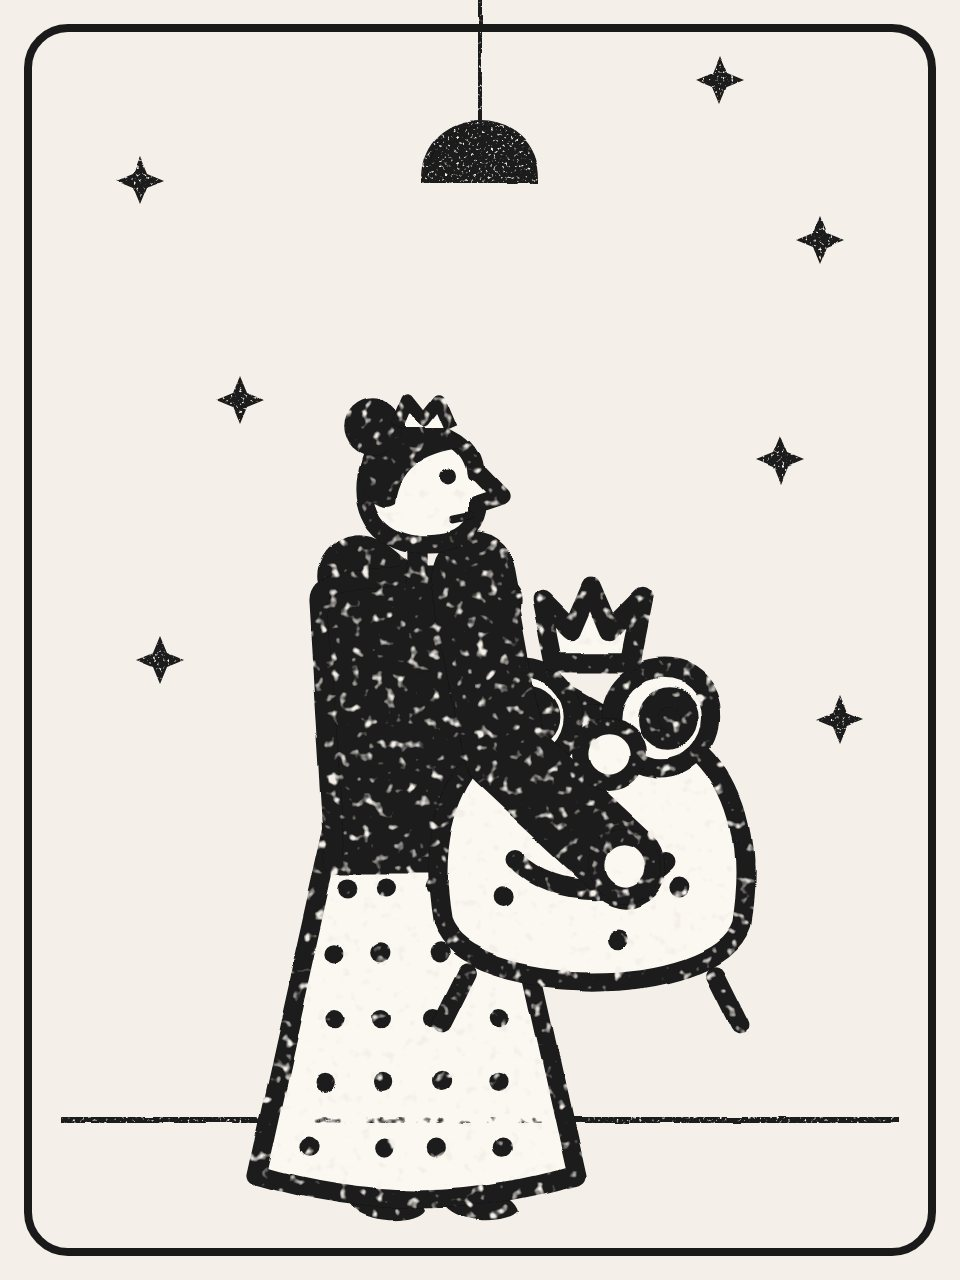
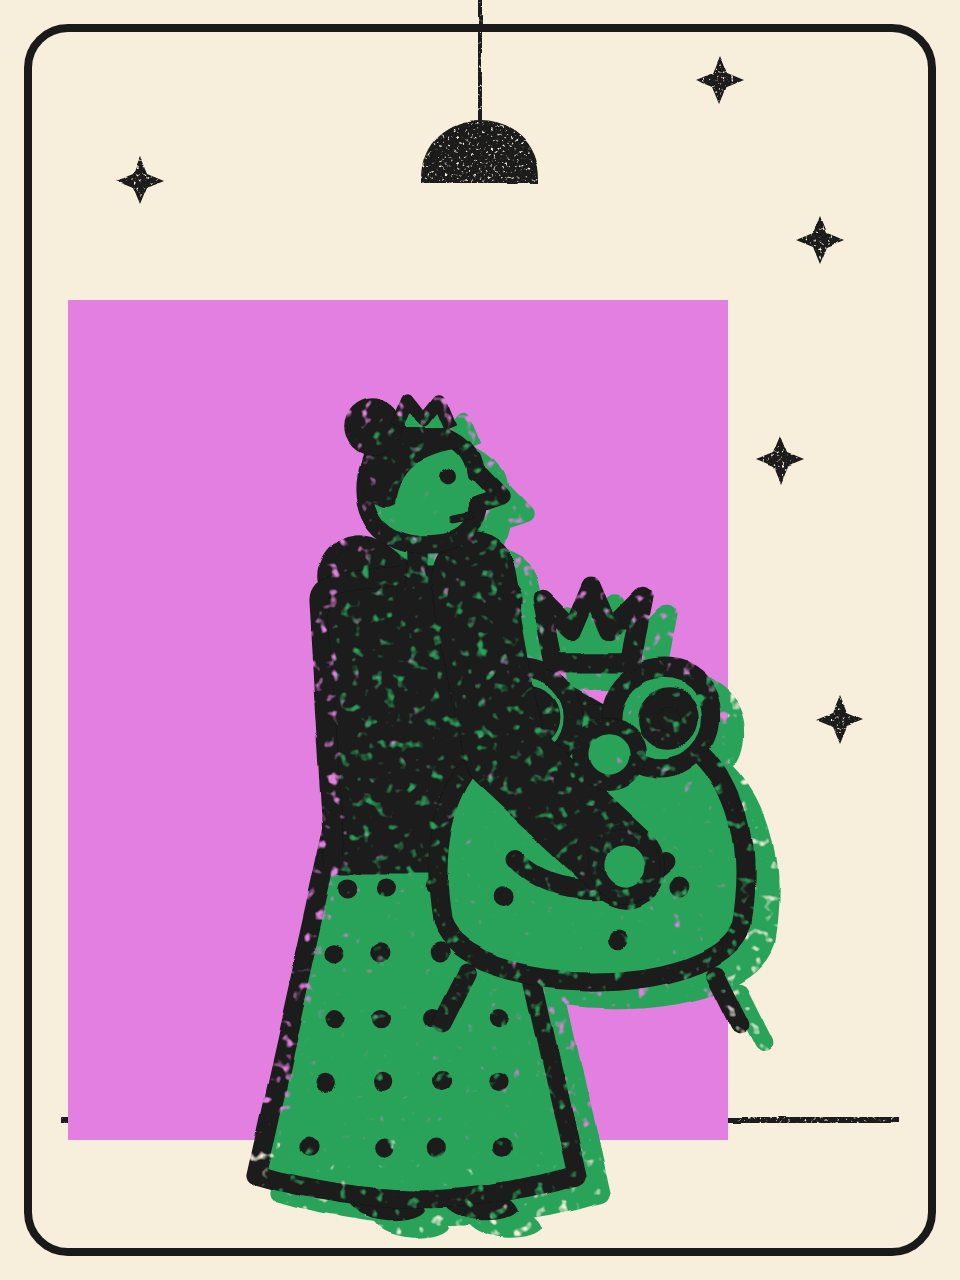
Prinzessinnenball: zweiter Stil mit Farbblöcken und Versatzdruck
- Karten: Cremepapier mit kräftigem Farbblock je Farbe (Feen Blau, Haustiere
  Grün, Königinnen Rot-Orange, Prinzen Schwarz); Farbcodierung bleibt
- Figuren im Kreidestrich mit Pop-Farbfläche und leicht versetzter Silhouette
  (popify); Prinzessinnen auf wechselnden Farbblöcken
- Oberfläche: Titel in Anton-Versalien, Rundenkarte als roter Stempel,
  Versatzschatten in Pink/Blau, Tisch als Pfirsich-Block
- Startbild mit Farbblöcken, Cover neu, CLAUDE.md-Stilzeile ergänzt

Claude-Session: https://claude.ai/code/session_01CofMMMC7P4qjXpmzNxeDE7

diff --git a/rebel-princess/index.html b/rebel-princess/index.html
@@ -3,15 +3,15 @@
 <head>
 <meta charset="utf-8">
 <meta name="viewport" content="width=device-width, initial-scale=1, viewport-fit=cover">
-<meta name="theme-color" content="#F4F0E9">
+<meta name="theme-color" content="#F8EEDC">
 <meta name="apple-mobile-web-app-capable" content="yes">
 <meta name="apple-mobile-web-app-title" content="Prinzessinnenball">
 <title>Prinzessinnenball</title>
 <link rel="preconnect" href="https://fonts.googleapis.com">
 <link rel="preconnect" href="https://fonts.gstatic.com" crossorigin>
-<link href="https://fonts.googleapis.com/css2?family=Caveat+Brush&family=Space+Mono:wght@400;700&display=swap" rel="stylesheet">
+<link href="https://fonts.googleapis.com/css2?family=Anton&family=Caveat+Brush&family=Space+Mono:wght@400;700&display=swap" rel="stylesheet">
 <style>
-:root{--ink:#1A1A1A;--paper:#F4F0E9;--white:#FBF8F2;--gray:#E9E4DA;--muted:#6b665d}
+:root{--ink:#1A1A1A;--paper:#F8EEDC;--white:#FFF8EC;--gray:#EADFCB;--muted:#6b665d;--pink:#FF5FA8;--peach:#F6B48F;--blue:#4A8FE0;--orange:#F08A2E;--stamp:#D2452B}
 *{box-sizing:border-box;-webkit-tap-highlight-color:transparent}
 html,body{margin:0}
 body{overflow-x:hidden;background:var(--paper);color:var(--ink);font:15px/1.4 system-ui,-apple-system,"Segoe UI",Roboto,sans-serif;overscroll-behavior-y:contain}
@@ -21,17 +21,17 @@ button{font:inherit;color:inherit;background:none;border:0;padding:0;cursor:poin
 .mono{font-family:"Space Mono",ui-monospace,monospace}
 .wrap{max-width:560px;margin:0 auto;padding:0 16px 24px}
 .ill{display:block;width:100%;height:100%;overflow:visible}
-.start{padding-top:16px;text-align:center}
-.start h1{font-size:clamp(34px,11vw,52px);line-height:.95;margin:6px 0 4px;overflow-wrap:anywhere}
+.start{padding-top:16px;text-align:left}
+.start h1{font-size:clamp(38px,11.8vw,58px);line-height:.95;margin:14px 0 6px;overflow-wrap:anywhere}
 .sub{font-size:13px;color:var(--muted);margin:0 0 14px}
 .hero{width:100%;max-width:420px;margin:0 auto;aspect-ratio:360/250}
-.panel{background:var(--white);border:2.5px solid var(--ink);border-radius:18px;box-shadow:4px 4px 0 var(--ink);padding:16px;text-align:left;margin:14px 0}
+.panel{background:var(--white);border:2.5px solid var(--ink);border-radius:18px;box-shadow:6px 6px 0 var(--blue);padding:16px;text-align:left;margin:14px 0}
 .label{font-family:"Space Mono",monospace;font-size:11px;text-transform:uppercase;letter-spacing:1px;color:var(--muted);margin:0 0 6px}
 .input{width:100%;font:inherit;font-size:16px;padding:10px 12px;border:2px solid var(--ink);border-radius:12px;background:var(--white)}
 .chips{display:flex;gap:8px;flex-wrap:wrap}
 .chip{border:2px solid var(--ink);border-radius:999px;padding:7px 14px;background:var(--white);font-weight:600}
 .chip.on{background:var(--ink);color:#fff}
-.btn{display:inline-flex;align-items:center;justify-content:center;gap:8px;min-height:48px;padding:10px 20px;border:2.5px solid var(--ink);border-radius:14px;background:var(--ink);color:#fff;box-shadow:3px 3px 0 #9a978f;font-weight:700;font-size:16px;text-decoration:none}
+.btn{display:inline-flex;align-items:center;justify-content:center;gap:8px;min-height:48px;padding:10px 20px;border:2.5px solid var(--ink);border-radius:14px;background:var(--ink);color:#fff;box-shadow:4px 4px 0 var(--pink);font-weight:700;font-size:16px;text-decoration:none}
 .btn.white{background:var(--white);color:var(--ink);box-shadow:3px 3px 0 var(--ink)}
 .btn:active{transform:translate(2px,2px);box-shadow:1px 1px 0 var(--ink)}
 .btn:disabled{opacity:.35;box-shadow:none;transform:none}
@@ -45,8 +45,8 @@ button{font:inherit;color:inherit;background:none;border:0;padding:0;cursor:poin
 .icobtn{width:40px;height:40px;border:2px solid var(--ink);border-radius:50%;background:var(--white);font-weight:800;font-size:18px;flex:none;display:grid;place-items:center}
 .icobtn.leave{width:auto;padding:0 12px 0 10px;border-radius:999px;display:flex;align-items:center;gap:6px;font-size:13px;white-space:nowrap}
 .backlink{display:block;text-align:left;margin:4px 0 2px;font-weight:800;font-size:13.5px;color:inherit;text-decoration:none;opacity:.75}
-.rule{flex:1;border:2px solid var(--ink);border-radius:12px;background:var(--white);padding:4px 8px;font-size:11.5px;line-height:1.2;text-align:left;min-width:0}
-.rule b{font-family:"Caveat Brush",cursive;font-size:16px;font-weight:400;display:block;line-height:1}
+.rule{flex:1;border:2px solid var(--stamp);border-radius:8px;background:rgba(255,248,236,.6);color:var(--stamp);padding:4px 8px;font-size:11.5px;line-height:1.2;text-align:left;min-width:0;transform:rotate(-1.2deg)}
+.rule b{font-family:"Anton",Impact,sans-serif;text-transform:uppercase;font-size:13px;font-weight:400;letter-spacing:.4px;display:block;line-height:1.1}
 /* Tisch */
 .opps{display:grid;grid-template-columns:1fr 1fr;gap:6px;margin-top:10px}
 .opp{display:flex;align-items:center;gap:6px;border:2px solid var(--ink);border-radius:14px;background:var(--white);padding:4px 6px 4px 4px;text-align:left;width:100%;min-width:0}
@@ -60,8 +60,7 @@ button{font:inherit;color:inherit;background:none;border:0;padding:0;cursor:poin
 .opp .sc b{font-size:15px}
 .opp .cnt{display:inline-flex;gap:1px}
 .opp .cnt i{width:5px;height:9px;border:1.2px solid var(--ink);border-radius:1.5px;background:var(--white);display:block}
-.table{margin-top:12px;border:2.5px solid var(--ink);border-radius:22px;background:var(--white);padding:10px;min-height:178px;position:relative;
-  background-image:radial-gradient(circle,#1A1A1A .9px,transparent 1.2px);background-size:14px 14px;background-color:var(--white)}
+.table{margin-top:12px;border:2.5px solid var(--ink);border-radius:22px;background:var(--peach);padding:10px;min-height:178px;position:relative}
 .table .lbl{position:absolute;left:10px;top:6px;font-family:"Space Mono",monospace;font-size:10.5px;background:var(--white);padding:0 4px;border-radius:4px}
 .table .pen{position:absolute;right:10px;top:6px;font-family:"Space Mono",monospace;font-size:10.5px;background:var(--white);padding:0 4px;border-radius:4px}
 .trick{display:flex;gap:6px;justify-content:center;flex-wrap:wrap;margin-top:18px}
@@ -125,12 +124,12 @@ button{font:inherit;color:inherit;background:none;border:0;padding:0;cursor:poin
 .pcards{display:grid;grid-template-columns:1fr 1fr;gap:10px;margin-top:10px}
 .pcard{border:2.5px solid var(--ink);border-radius:16px;background:var(--white);padding:8px;text-align:center;box-shadow:3px 3px 0 var(--ink)}
 .pcard.on{outline:3px solid var(--ink);outline-offset:3px;transform:rotate(-1.5deg)}
-.pcard .pi{height:110px}
+.pcard .pi{height:110px;border-radius:10px;overflow:hidden;border:2px solid var(--ink)}
 .pcard b{font-family:"Caveat Brush",cursive;font-size:20px;font-weight:400;display:block;line-height:1.05;margin-top:4px}
 .pcard small{font-size:12px;display:block;margin-top:3px;line-height:1.25}
 .btnrow{display:flex;gap:8px;margin-top:12px}
 .btnrow .btn{flex:1}
-.toast{position:fixed;left:50%;top:calc(70px + env(safe-area-inset-top));transform:translateX(-50%);z-index:70;background:var(--ink);color:#fff;padding:8px 14px;border-radius:12px;font-size:13px;max-width:min(92vw,520px);box-shadow:3px 3px 0 #9a978f}
+.toast{position:fixed;left:50%;top:calc(70px + env(safe-area-inset-top));transform:translateX(-50%);z-index:70;background:var(--ink);color:#fff;padding:8px 14px;border-radius:12px;font-size:13px;max-width:min(92vw,520px);box-shadow:3px 3px 0 var(--pink)}
 .rules h4{font-family:"Caveat Brush",cursive;font-size:22px;font-weight:400;margin:16px 0 2px}
 .rules p,.rules li{font-size:14px}
 .rules ul{padding-left:18px;margin:4px 0}
@@ -140,7 +139,7 @@ button{font:inherit;color:inherit;background:none;border:0;padding:0;cursor:poin
 .podium .pl{border:2.5px solid var(--ink);border-radius:10px 10px 0 0;font-family:"Caveat Brush",cursive;font-size:26px;display:grid;place-items:center;background:var(--white)}
 .podium .pp:nth-child(2) .pl{background:var(--ink);color:#fff}
 /* Lernspiel */
-.coach{position:fixed;left:12px;right:12px;bottom:84px;z-index:75;max-width:536px;margin:0 auto;display:flex;gap:10px;align-items:flex-start;background:var(--white);border:2.5px solid var(--ink);border-radius:16px;box-shadow:4px 4px 0 var(--ink);padding:10px 12px}
+.coach{position:fixed;left:12px;right:12px;bottom:84px;z-index:75;max-width:536px;margin:0 auto;display:flex;gap:10px;align-items:flex-start;background:var(--white);border:2.5px solid var(--ink);border-radius:16px;box-shadow:5px 5px 0 var(--pink);padding:10px 12px}
 .coach.top{top:calc(10px + env(safe-area-inset-top));bottom:auto!important}
 .coach .cface{width:52px;height:52px;flex:none;border-radius:50%;border:2px solid var(--ink);overflow:hidden;background:var(--white)}
 .coach .ctext{flex:1;min-width:0}
@@ -158,6 +157,11 @@ button{font:inherit;color:inherit;background:none;border:0;padding:0;cursor:poin
 .coach .cwait{font-weight:800;letter-spacing:3px}
 .tut-hl{outline:3px dashed var(--ink)!important;outline-offset:4px;animation:tutp 1s ease-in-out infinite;position:relative;z-index:6;border-radius:12px}
 @keyframes tutp{50%{outline-offset:7px}}
+.start h1,.sech h2,.round,.sheet h3,.rules h4,.podium .pl{font-family:"Anton",Impact,"Arial Narrow",sans-serif!important;font-weight:400!important;text-transform:uppercase;letter-spacing:.4px}
+.round{font-size:17px}
+.rule{min-width:80px;display:-webkit-box;-webkit-box-orient:vertical;-webkit-line-clamp:4;overflow:hidden}
+.sech h2{font-size:24px}
+.sheet h3{font-size:26px}
 .why{position:relative;margin:10px 2px 0;font-size:12.5px;line-height:1.4;background:var(--white);border:1.5px solid var(--ink);border-radius:10px;padding:6px 9px}
 </style>
 </head>
@@ -197,7 +201,7 @@ button{font:inherit;color:inherit;background:none;border:0;padding:0;cursor:poin
    Prinzessinnenball – ein Stichspiel nach dem Spielprinzip von
    „Rebel Princess“. Prinzessinnen weichen fünf Ballnächte lang den
    Heiratsanträgen der Prinzen aus. Karten, Fähigkeiten, Rundenregeln
-   und Illustrationen (schwarz-weiß) sind eigene Neuschöpfungen.
+   und Illustrationen (Kreidestrich mit Farbblöcken) sind eigene Neuschöpfungen.
    ===================================================================== */
 function hashStr(s) { let h = 2166136261; for (let i = 0; i < s.length; i++) { h ^= s.charCodeAt(i); h = Math.imul(h, 16777619); } return h >>> 0; }
 function prng(seed) {
@@ -1182,12 +1186,22 @@ function suitIcon(s, inv) {
   }
 }
 // Farbcodes je Farbe (Owner-Wunsch: Stiche auf einen Blick erkennen)
+// Zweiter Owner-Stil: kräftige Farbblöcke auf Cremepapier, Figurenfläche leicht versetzt
+// zum schwarzen Strich gedruckt (pop); die Farbcodierung der Stiche bleibt erhalten.
 const SUIT_COL = {
-  F: { bg: '#DCE7F7', fg: '#2F5BB0' },
-  H: { bg: '#DCEDD2', fg: '#3B8546' },
-  K: { bg: '#F8DCD3', fg: '#C4452E' },
-  P: { bg: '#1A1A1A', fg: '#F4A6B8' },
+  F: { bg: '#4A8FE0', fg: '#2F5BB0', pop: '#F6E2C2' },
+  H: { bg: '#2BA35A', fg: '#22844A', pop: '#F7D547' },
+  K: { bg: '#F0643C', fg: '#D2452B', pop: '#FFC2D8' },
+  P: { bg: '#1A1A1A', fg: '#FF5FA8', pop: '#FF5FA8' },
 };
+const CREAM = '#FBF1DF';
+// Versatzdruck: Silhouette in der Pop-Farbe leicht verschoben, helle Flächen in der Pop-Farbe
+function popify(inner, pop, keepDark) {
+  const sil = inner.replace(/#1A1A1A|#FBF8F2|#F3EEE4|#161616/gi, pop);
+  const main = keepDark ? inner : inner.replace(/#FBF8F2/gi, pop);
+  return `<g transform="translate(3,2.2)">${sil}</g>${main}`;
+}
+const POP_PAIRS = [['#F6B48F', '#4A8FE0'], ['#E27FE0', '#2BA35A'], ['#F08A2E', '#FBE7C6'], ['#4A8FE0', '#F6E2C2'], ['#F5D33F', '#FF7FB5'], ['#26B8B0', '#FBE7C6'], ['#8B5CC7', '#F5D33F'], ['#FF5FA8', '#F7D547']];
 const strip = s => s.replace(/^<svg[^>]*>/, '').replace(/<\/svg>$/, '');
 // Haustiere im Café-Strich: schwarze Silhouetten oder weiße Formen mit Kontur
 function petSvg(v) {
@@ -1241,7 +1255,7 @@ function cardArt(c) {
   else if (s === 'F') inner = fairySvg(v);
   else if (s === 'K') inner = queenSvg(v);
   else inner = princeSvg(v);
-  return `<svg viewBox="8 4 84 124" class="ill" aria-hidden="true">${inner}</svg>`;
+  return `<svg viewBox="8 4 84 124" class="ill" aria-hidden="true">${popify(inner, SUIT_COL[s].pop, s === 'P')}</svg>`;
 }
 const artCache = {};
 function roughRect(seed) {
@@ -1255,8 +1269,8 @@ function cardHtml(c, cls = '', attrs = '') {
   const pts = S && S.rule ? cardPts(c) : c === FROG ? 5 : s === 'P' ? 1 : 0;
   const badge = pts ? `<span class="badge">${pts > 0 ? pts + '×' : pts}</span>` : '';
   const hatch = c === FROG ? range(8).map(i => `<path d="M${6 + i * 6.4},85 L${12 + i * 6.4},63" stroke="#1A1A1A" stroke-width="1.2" opacity=".35"/>`).join('') : '';
-  const frame = `<svg class="frame" viewBox="0 0 62 90" preserveAspectRatio="none" aria-hidden="true"><path d="${roughRect(c)}" fill="${SUIT_COL[s].bg}"/>${hatch}<path d="${roughRect(c)}" fill="none" stroke="#1A1A1A" stroke-width="2.4" stroke-linejoin="round" filter="url(#rough)"/></svg>`;
-  return `<button class="card ${s} ${c === FROG ? 'frog' : ''} ${cls}" ${attrs} aria-label="${SUIT_1[s]} ${v}${c === FROG ? ' (Frosch)' : ''}">${frame}<span class="v" style="color:${isP ? '#F3EEE4' : SUIT_COL[s].fg}">${v}</span><span class="s">${suitIcon(s, isP)}</span><span class="art">${artCache[c]}</span>${badge}</button>`;
+  const frame = `<svg class="frame" viewBox="0 0 62 90" preserveAspectRatio="none" aria-hidden="true"><path d="${roughRect(c)}" fill="${CREAM}"/><rect x="10" y="19" width="49.6" height="58" fill="${SUIT_COL[s].bg}"/>${hatch}<path d="${roughRect(c)}" fill="none" stroke="#1A1A1A" stroke-width="2.4" stroke-linejoin="round" filter="url(#rough)"/></svg>`;
+  return `<button class="card ${s} ${c === FROG ? 'frog' : ''} ${cls}" ${attrs} aria-label="${SUIT_1[s]} ${v}${c === FROG ? ' (Frosch)' : ''}">${frame}<span class="v" style="color:${isP ? '#1A1A1A' : SUIT_COL[s].fg}">${v}</span><span class="s">${suitIcon(s, false)}</span><span class="art">${artCache[c]}</span>${badge}</button>`;
 }
 // Prinzessinnen: jede mit ihrem übergroßen Gegenstand (wie die Café-Referenz)
 const PRINCESS_SCENE = {
@@ -1276,20 +1290,21 @@ const PRINCESS_SCENE = {
   schwan: () => figure('prs-schwan', { pose: 'kneel', hair: 'long', hat: 'tiara', top: 'white', dress: 'white', prop: 'wand' }),
   belle: () => figure('prs-belle', { pose: 'hug', hair: 'curly', hat: 'crown', top: 'white', dress: 'stripes', big: bigProp('rose', 66, 50, 0.7) }),
 };
-function princessArt(k) { return `<svg viewBox="0 -8 100 138" class="ill" aria-hidden="true">${(PRINCESS_SCENE[k] || PRINCESS_SCENE.schnee)()}</svg>`; }
+function princessArt(k) { const [bg, pop] = POP_PAIRS[Math.max(0, PRINCESSES.findIndex(p => p.k === k)) % POP_PAIRS.length]; return `<svg viewBox="0 -8 100 138" class="ill" aria-hidden="true" style="background:${bg}">${popify((PRINCESS_SCENE[k] || PRINCESS_SCENE.schnee)(), pop)}</svg>`; }
 function heroSvg() {
-  const fig = (inner, x, y, w, flip) => `<svg x="${x}" y="${y}" width="${w}" height="${w * 1.3}" viewBox="0 0 100 130" overflow="visible"><g ${flip ? 'transform="translate(100,0) scale(-1,1)"' : ''}>${inner}</g></svg>`;
+  const fig = (inner, x, y, w, flip, pop) => `<svg x="${x}" y="${y}" width="${w}" height="${w * 1.3}" viewBox="0 0 100 130" overflow="visible"><g ${flip ? 'transform="translate(100,0) scale(-1,1)"' : ''}>${pop ? popify(inner, pop) : inner}</g></svg>`;
   const sitter = (seed, o) => `<g filter="url(#crayon)">${bigProp('chair', 44, 92, 1)}</g>${figure(seed, Object.assign({ pose: 'sit', prop: 'cup' }, o))}`;
   return `<svg viewBox="0 0 360 250" class="ill" role="img" aria-label="Illustration: Prinzessinnen sitzen im Café, ein Prinz schleppt einen Riesenring herbei">
+   <rect x="0" y="34" width="238" height="204" fill="#F6B48F"/><rect x="238" y="0" width="122" height="238" fill="#E27FE0"/>
    <g filter="url(#crayon)" ${INK}>
     <path d="M6,238 H354" fill="none" stroke-width="3"/>
     <path d="M150,0 V40" fill="none" stroke-width="2"/><path d="M134,58 C134,36 166,36 166,58 Z" fill="#1A1A1A"/><path d="M144,64 l-3,6 M150,66 v7 M156,64 l3,6" fill="none" stroke-width="2"/>
     ${bigProp('table', 152, 196, 1.2)}
    </g>
    <g filter="url(#crayon)">${bigProp('cup', 138, 186, 0.22)}${bigProp('cake', 166, 184, 0.26)}</g>
-   ${fig(sitter('heroA', { hair: 'bob', hat: 'tiara', top: 'black', dress: 'dots' }), -4, 82, 124, false)}
-   ${fig(sitter('heroB', { hair: 'bun', hat: 'crown', top: 'white', dress: 'black', glasses: 1 }), 146, 82, 124, true)}
-   ${fig(figure('heroPrinz', { pose: 'carry', hat: 'top', must: 1, hair: 'short', top: 'stripes', pants: 'black', big: bigProp('ring', 50, 6, 0.62) }), 252, 100, 110, true)}
+   ${fig(sitter('heroA', { hair: 'bob', hat: 'tiara', top: 'black', dress: 'dots' }), -4, 82, 124, false, '#4A8FE0')}
+   ${fig(sitter('heroB', { hair: 'bun', hat: 'crown', top: 'white', dress: 'black', glasses: 1 }), 146, 82, 124, true, '#F7D547')}
+   ${fig(figure('heroPrinz', { pose: 'carry', hat: 'top', must: 1, hair: 'short', top: 'stripes', pants: 'black', big: bigProp('ring', 50, 6, 0.62) }), 252, 100, 110, true, '#2BA35A')}
    <text x="226" y="96" font-family="Caveat Brush,cursive" font-size="30" fill="#1A1A1A">?!</text>
   </svg>`;
 }
@@ -1339,7 +1354,7 @@ function viewStart() {
   return `<div class="wrap start">
     <div class="startbar"><a class="icobtn leave" href="../" aria-label="Beenden und zurück zu Spielregal"><svg viewBox="0 0 20 20" width="13" height="13" aria-hidden="true"><path d="M4.5 4.5l11 11M15.5 4.5l-11 11" stroke="currentColor" stroke-width="2.6" stroke-linecap="round"/></svg><span>Beenden</span></a></div>
     <div class="hero">${heroSvg()}</div>
-    <h1 class="hand">Prinzessinnenball</h1>
+    <h1 class="hand">Prinzessinnen&shy;ball</h1>
     <p class="sub">Fünf Ballnächte, zu viele Prinzen: das Stichspiel nach den Regeln von <i>Rebel Princess</i> (Deluxe Edition).</p>
     ${saved && saved.screen === 'game' ? `<button class="btn wide" data-a="resume">Partie fortsetzen · Ballnacht ${saved.round || 1}/${ROUNDS}</button><p style="margin:6px 0 0;font-size:12.5px;opacity:.75">${saved.savedAt ? `Gespeichert ${savedLabel(saved)} · ` : ''}<button class="link" data-a="discard" style="font-size:12.5px">verwerfen</button></p>` : ''}
     <div class="panel">
@@ -1653,7 +1668,7 @@ function render() {
   if (S && myAsk() && !(myAsk().kind === 'cards' && !myAsk().list) && myAsk().kind !== 'pre' && !U.sheet) U.sheet = { type: 'ask' };
   if (U.sheet && U.sheet.type === 'ask' && !myAsk()) U.sheet = null;
   let h = !S || S.screen !== 'game' && S.screen !== 'end' ? viewStart() : S.screen === 'end' ? viewEnd()
-    : S.phase === 'princess' ? `<div class="wrap start"><div class="hero">${heroSvg()}</div><h1 class="hand">Prinzessinnenball</h1></div>` : viewGame();
+    : S.phase === 'princess' ? `<div class="wrap start"><div class="hero">${heroSvg()}</div><h1 class="hand">Prinzessinnen&shy;ball</h1></div>` : viewGame();
   h += viewSheet();
   if (U.toast) h += `<div class="toast">${esc(U.toast)}</div>`;
   if (U.tut) h += tutHtml();

diff --git a/CLAUDE.md b/CLAUDE.md
@@ -79,7 +79,7 @@ des jeweiligen Spiels treffen:
 | Spiel (Ordner) | Referenzen des Owners | Stilregeln |
 |---|---|---|
 | Grand Hotel Wien (`grand-austria-hotel/`) | Schwarz-weiße „Café People“-Strichfiguren (gilt laut Owner weiterhin auch hier, nur anders umgesetzt); bunte Sticker-Figuren mit Mustern; kreidig gemalte Figur mit Kobaltblau/Pink/Gelb | **Mix:** schwarze Tuschekonturen mit leichtem Zittern (`#wob`), gefüllt mit Kreidefarben (Rot, Kobaltblau, Senfgelb, Pink, Grün), Muster auf Kleidung, Körnung; harte Kanten mit Versatzschatten; Schriften Caveat Brush + Space Mono |
-| Prinzessinnenball (`rebel-princess/`) | (1) Gemalte Kreideskizze: Profil mit spitzer Nase, geschlossene Augen, schwarze Haarfläche; (2) „Café People“-Strichfiguren (vom Owner ausdrücklich kombiniert gewünscht) | **Kombination, schwarz-weiß:** Figuren wie Café People (ganze Körper, kleiner Profilkopf, breite schwarze Pullover/Röcke, Fausthände, Posen wie umarmen/tragen/knien/lümmeln, übergroße Gegenstände: Riesenapfel, Riesenfrosch, Riesenring …), gezeichnet im Kreidestrich mit Papiersprenkeln (`#crayon`); handgezogene Kartenrahmen (`#rough`), Prinzen als weiße Kreide auf Schwarz, warmer Papierton `#F4F0E9`; Figuren schwarz-weiß, aber **Kartenfarben farbcodiert** (Owner-Wunsch für lesbare Stiche): Feen blau `#DCE7F7`/`#2F5BB0`, Haustiere grün `#DCEDD2`/`#3B8546`, Königinnen rot `#F8DCD3`/`#C4452E`, Prinzen schwarz mit Rosa `#F4A6B8` |
+| Prinzessinnenball (`rebel-princess/`) | (1) Gemalte Kreideskizze: Profil mit spitzer Nase, geschlossene Augen, schwarze Haarfläche; (2) „Café People“-Strichfiguren (vom Owner ausdrücklich kombiniert gewünscht) | **Kombination, schwarz-weiß:** Figuren wie Café People (ganze Körper, kleiner Profilkopf, breite schwarze Pullover/Röcke, Fausthände, Posen wie umarmen/tragen/knien/lümmeln, übergroße Gegenstände: Riesenapfel, Riesenfrosch, Riesenring …), gezeichnet im Kreidestrich mit Papiersprenkeln (`#crayon`); handgezogene Kartenrahmen (`#rough`), Prinzen als weiße Kreide auf Schwarz, warmer Papierton (jetzt `#F8EEDC`); Figuren schwarz-weiß, aber **Kartenfarben farbcodiert** (Owner-Wunsch für lesbare Stiche): Feen blau `#DCE7F7`/`#2F5BB0`, Haustiere grün `#DCEDD2`/`#3B8546`, Königinnen rot `#F8DCD3`/`#C4452E`, Prinzen schwarz mit Rosa `#F4A6B8`. **Zweiter Owner-Stil, ausdrücklich ergänzend („weiterer Style“):** Plakat-Illustrationen mit kräftigen Farbblöcken auf Cremepapier `#F8EEDC` und schwarzem Strich, Farbfläche leicht versetzt gedruckt (Banane/Taube). Umsetzung: Karten sind Creme mit Farbblock je Farbe (Feen `#4A8FE0`, Haustiere `#2BA35A`, Königinnen `#F0643C`, Prinzen schwarz); Figurenflächen in einer Pop-Farbe mit versetzter Silhouette (`popify`, Feen Creme, Haustiere Gelb, Königinnen Rosa, Prinzen Pink). Prinzessinnen auf wechselnden Farbblöcken (`POP_PAIRS`). Titel in Anton (Versalien), Rundenkarte als roter Stempel `#D2452B`, Versatzschatten in Pink/Blau statt Grau; Tisch als Pfirsich-Block `#F6B48F` |
 | Drei Schwestern (`three-sisters/`) | Frau mit Blumenstrauß statt Kopf und gestreifter Hose; „Garden Party“-Pack mit flachen Pflanzen und Tieren; Risograph-Gartenlandschaft | **Flach ohne Konturen:** keine schwarzen Umrisse, Details im dunkleren Ton derselben Farbe, Risograph-Körnung mit weichen Kanten (`#riso`), Pfirsich-Creme-Grund `#F8ECE1`, frische Garten-Palette; Figuren mit Pflanzenstrauß statt Kopf; runde, rahmenlose UI; Schrift Fredoka |
 | Landgut (`countryside/`, Original „Countryside“) | Owner-Referenzen „Stil für Landgut“ (ersetzt den früheren Aquarell-/Ghibli-Stil): flache Gouache-Wildblumenwiese (Mohn, Tulpen, Margeriten, Lavendel) vor blassblauen Hügeln; Figuren zwischen übergroßen Blumen mit Ringelkleidung; zwei Umarmende mit Strauß vor dichtem Blumenmuster auf Petrol; drei Freunde in körnigem Kreidestil | **Flache Gouache mit Kreidekorn:** flache Farbflächen mit leicht trockenem Pinselrand (`#gouache`), Kreidesprenkel über dem Bild (`#tooth`), keine schwarzen Konturen; Cremegrund `#F4EAD5`, blassblaue Hügel `#C9DAE3`/`#AAC3D3`, Salbeiwiese `#A9B98C`; Blumen mit gepunkteter Mitte; Figuren als schlanke Erwachsene im Profil (Owner-Feedback: „zu kindlich“ vermeiden): kleiner Kopf mit Nase, geschlossenes Auge, rote Wange, Ohrring; Ringel-, Karo- oder Blümchenmuster, schmale Hosen/A-Röcke, kleine Schuhe, Gegenstand in der vorgestreckten Hand; übergroße Blumen vor den Beinen; Körnung bewusst fein und dezent (Owner: „zu stark“), Szenen dicht (ferne Bäumchen, Grashalme, Blumenvordergrund); Personenkarten auf dichtem Blumenmuster in Petrol `#2E5652`; gedeckte Palette (Mohnrot, Senf, Oliv, Lavendel, Hellblau); **App-Oberfläche** nach den Owner-Referenzen „App Style für Landgut“ (moderne Wellness-/Journal-Apps, Editorial-Layouts): warmer Greige-Grund `#ECE7E2`, weiße Karten mit großen Radien (24–32 px) ohne schwere Schatten, Gebiete als Pastellflächen (Wiese `#DFE8CF`, Haus `#F6D6D1`, Stall `#D6E4F2`, Acker `#FCE7B0`, Garten `#E3DCFB`, kräftige Typfarben `#7C9A4A`/`#D9735F`/`#5B86B5`/`#E2A21E`/`#8C74D6`), gelbe Pill-Knöpfe `#FDBA2C` mit dunkler Schrift `#1F1A17`, tiefes Lila `#4B3A6E` für „du bist dran“ und Hervorhebungen, große fette Titel; Schrift Outfit. Abgrenzung zu Drei Schwestern: dort Riso ohne Körnung-Sprenkel, Blumenstrauß statt Kopf, Pfirsichgrund, Fredoka – hier echte Gesichter und Kreidekorn |
 
